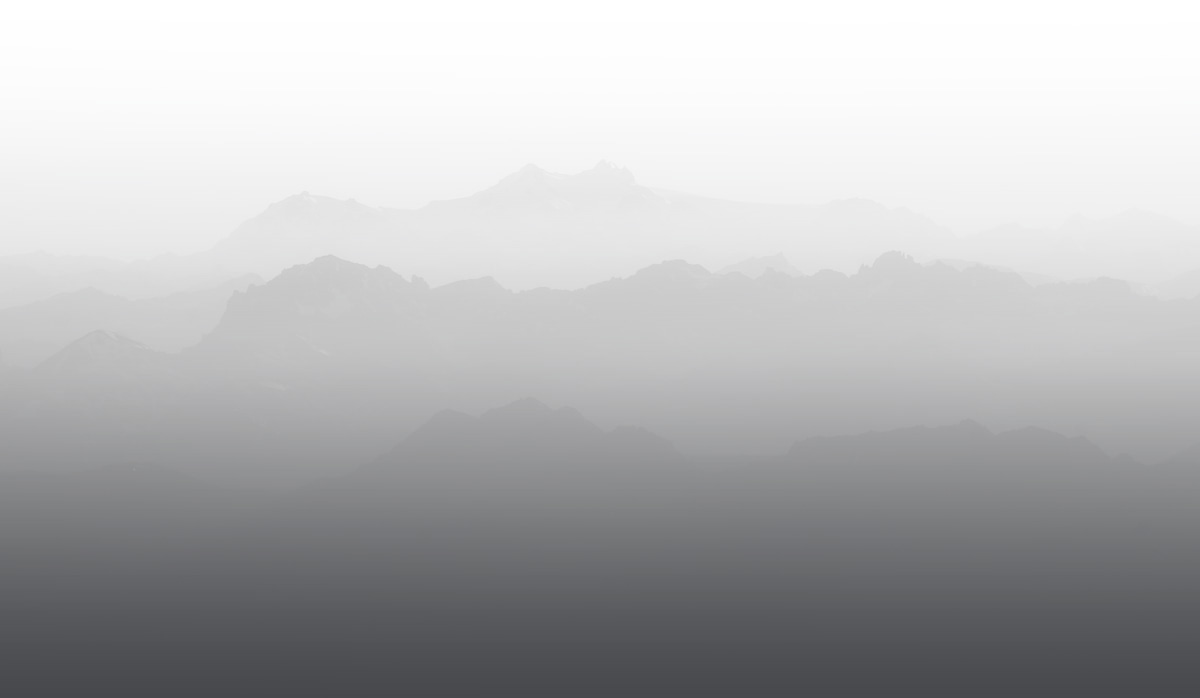
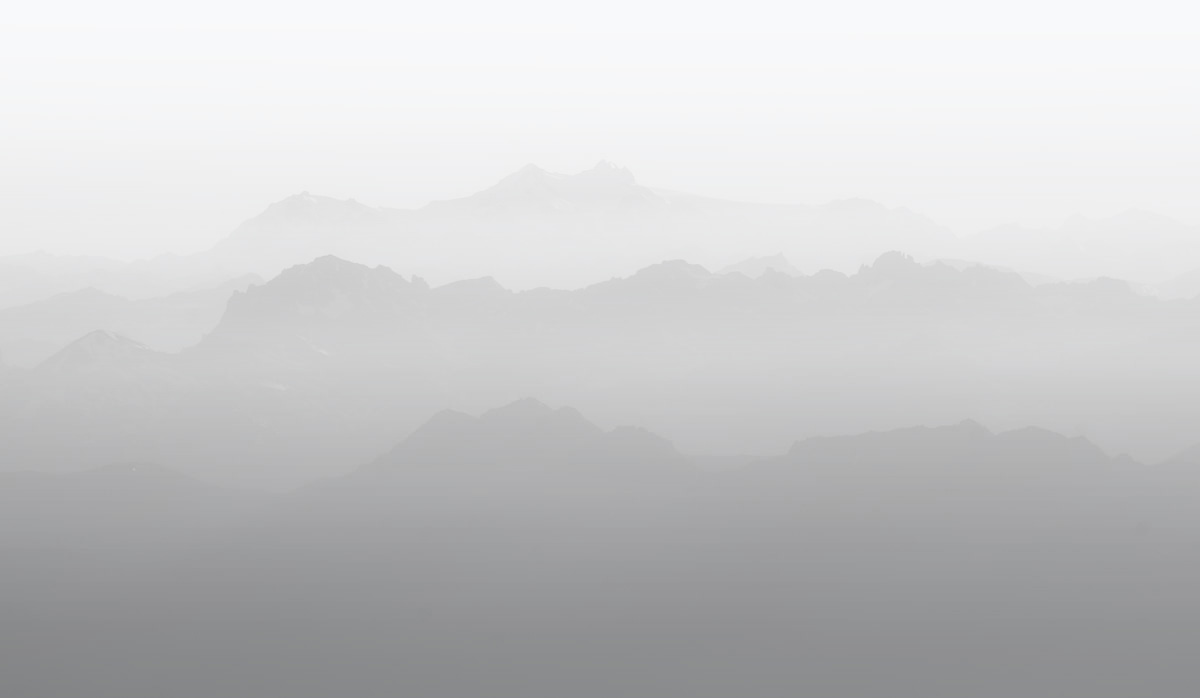
update

diff --git a/css/styles.css b/css/styles.css
@@ -11547,7 +11547,7 @@ header.masthead .masthead-heading {
 
 
 section#contact .section-heading {
-    color: #fff;
+    color: #212529;
 }
 
 section#contact form#contactForm .form-group {
@@ -11631,7 +11631,7 @@ section#contact form#contactForm :-ms-input-placeholder {
 }
 
 .card.py-4.h-100 {
-    background-color: rgb(85, 88, 91, 0.8);
+    background-color: rgba(85, 88, 91, 0.85);
     padding-bottom: 5rem;
 }
 
@@ -11818,14 +11818,14 @@ section#contact .section-heading {
     color: #212529;
     background:
 
+/*
         linear-gradient(to bottom,
             rgba(250, 250, 250, .9) 5%,
             rgba(250, 250, 250, .4) 15%,
-            /*                    rgba(33, 37, 41, .01) 95%,*/
-
             #424548 100%),
+*/
 
-        url("../assets/amm_portfolio/amm_images/hazyMountains.jpg");
+        url("../assets/amm_portfolio/amm_images/hazyMountains3.jpg");
     background-repeat: no-repeat;
     background-attachment: scroll;
     background-position: right;
@@ -11838,20 +11838,22 @@ section#contact {
     padding-top: 6rem;
     padding-bottom: 6rem;
     text-align: center;
-    color: #212529;
+    color: #E4E4E4;
     background:
 
+/*
         linear-gradient(to bottom,
-            rgba(198, 198, 198, .2) 80%,
+            rgba(138, 140, 141, .2) 80%,
 
             #212529 100%),
+*/
 
         linear-gradient(to top,
-            rgba(33, 37, 41, .2) 80%,
+            rgba(138, 140, 141, .2) 80%,
 
-            #212529 100%),
+            #E4E4E4 100%),
 
-        url("../assets/amm_portfolio/amm_images/SwissHillshade_painterly2.jpg");
+        url("../assets/amm_portfolio/amm_images/SwissHillshade_painterly3.jpg");
     background-repeat: space;
     background-attachment: scroll;
     background-position: center center;
@@ -11988,7 +11990,7 @@ header.masthead .masthead-subheading {
         Roboto, "Helvetica Neue", Arial, sans-serif, "Apple Color Emoji",
         "Segoe UI Emoji", "Segoe UI Symbol", "Noto Color Emoji";
     color: white;
-    background: -webkit-linear-gradient(white, #E7E7E7);
+    background: -webkit-linear-gradient(#212529, #212529);
     -webkit-background-clip: text;
     -webkit-text-fill-color: transparent;
     /*animation: moveoverinfo 3s ease-out 1;*/
@@ -12011,4 +12013,9 @@ header.masthead .masthead-subheading {
     font-family: NeutrafaceCondensed-Light !important;
     font-size: 1.8rem;
     font-style: normal;
+}
+
+.footer.py-4{
+    background: #212529;
+    color: white !important;
 }
